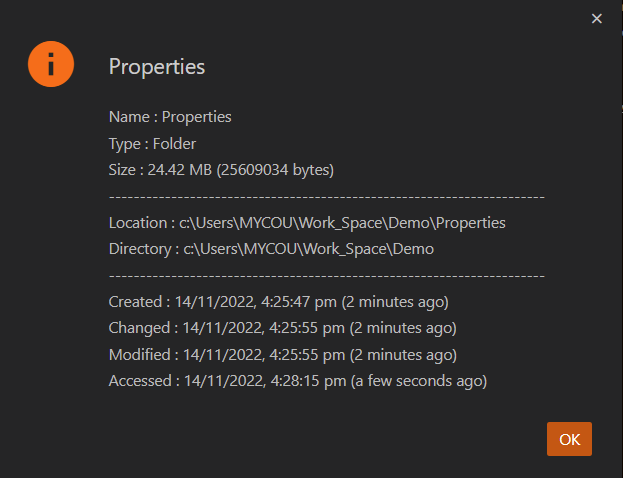
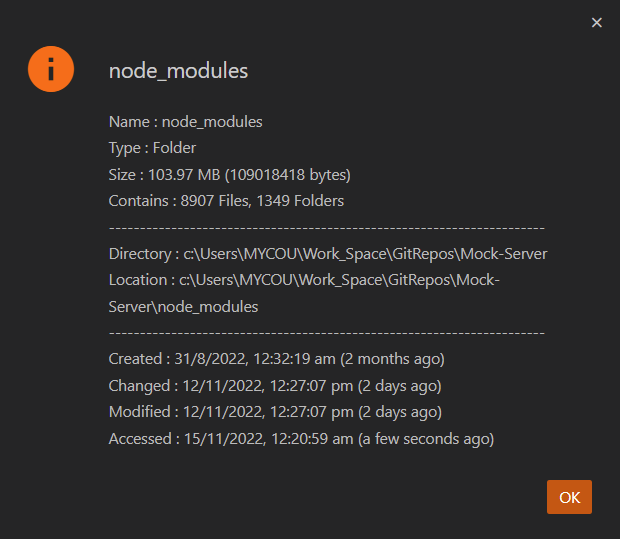
feat: Added number of files and folders in folder properties

diff --git a/src/extension.ts b/src/extension.ts
@@ -2,9 +2,9 @@ import * as vscode from 'vscode';
 import * as fs from "fs";
 import * as path from "path";
 import * as mime from "mime";
-import { convertBytes, dirSize, formatDate, imageDimension, toString, musicMetaData, videoMetaData } from './helpers';
 import { Settings } from './Settings';
 import * as humanizeDuration from "humanize-duration";
+import { convertBytes, formatDate, getAudioDetails, getImageDetails, getStats, getVideoDetails, toString } from './helpers';
 
 
 export function activate(context: vscode.ExtensionContext) {
@@ -17,72 +17,68 @@ export function activate(context: vscode.ExtensionContext) {
 			location: vscode.ProgressLocation.Notification,
 			title: "Please wait...",
 		}, async () => {
-			const stat = fs.statSync(fsPath);
-			const extension = path.extname(fsPath) || "[none]";
-			const title = path.basename(fsPath);
-			const name = path.basename(fsPath, extension);
-			const type = stat.isFile() ? "File" : "Folder";
-			const directory = path.dirname(fsPath);
-			const size = stat.isFile() ? convertBytes(stat.size) || 0 : convertBytes(await dirSize(fsPath));
-			const created = formatDate(stat.birthtime) || "";
-			const changed = formatDate(stat.ctime) || "";
-			const modified = formatDate(stat.mtime) || "";
-			const accessed = formatDate(stat.atime) || "";
-			const mimeType = mime.getType(fsPath) || '[unknown]';
-			const dimensions = mimeType.includes('image') ? imageDimension(fsPath) : "";
-			const musicmetadata = mimeType.includes('audio') ? await musicMetaData(fsPath) : "";
-			const videometadata = mimeType.includes('video') ? await videoMetaData(fsPath) : "";
 
-			const baseDetails = toString([
-				["Name", type === 'File' ? name : title],
-				["Extension", extension, type === 'File'],
-				["Type", type],
-				["Size", size]
+			const stats = await getStats(fsPath);
+
+			const mimeType = mime.getType(fsPath) || '[unknown]';
+
+			const image = mimeType.includes('image') ? getImageDetails(fsPath) : "";
+
+			const audio = mimeType.includes('audio') ? await getAudioDetails(fsPath) : "";
+
+			const video = mimeType.includes('video') ? await getVideoDetails(fsPath) : "";
+
+			const pathDetails = toString([
+				["Name", stats.isFile ? stats.baseName : stats.fileName],
+				["Extension", stats.extension, stats.isFile],
+				["Type", stats.type],
+				["Size", convertBytes(stats.size), stats.size],
+				["Contains", `${stats.contains?.files} Files, ${stats.contains?.folders} Folders`, !stats.isFile && stats.contains]
 			]);
 
-			const dimensionDetails = dimensions ?
+			const imageDetails = image ?
 				toString([
-					["Dimensions", `${dimensions?.width} x ${dimensions?.height} pixels`],
-					["Width", `${dimensions?.width} pixels`],
-					["Height", `${dimensions?.height} pixels`],
+					["Dimensions", `${image?.width} x ${image?.height} pixels`],
+					["Width", `${image?.width} pixels`],
+					["Height", `${image?.height} pixels`],
 				]) : "";
 
-			const audioDetails = musicmetadata ?
+			const audioDetails = audio ?
 				toString([
-					["Title", musicmetadata.title, Settings.audioMetaData.title],
-					["Album", musicmetadata.album, Settings.audioMetaData.album],
-					["Artist", musicmetadata.artist.join(', '), Settings.audioMetaData.artist],
-					["Genre", musicmetadata.genre.join(', '), Settings.audioMetaData.genre],
-					["Year", musicmetadata.year, Settings.audioMetaData.year],
-					["Duration", humanizeDuration(musicmetadata.duration * 1000, { maxDecimalPoints: 2 }), Settings.showDuration && musicmetadata.duration],
+					["Title", audio.title, Settings.audioMetaData.title],
+					["Album", audio.album, Settings.audioMetaData.album],
+					["Artist", audio.artist.join(', '), Settings.audioMetaData.artist],
+					["Genre", audio.genre.join(', '), Settings.audioMetaData.genre],
+					["Year", audio.year, Settings.audioMetaData.year],
+					["Duration", humanizeDuration(audio.duration * 1000, { maxDecimalPoints: 2 }), Settings.showDuration && audio.duration],
 				]) : "";
 
-			const videoDetails = videometadata ?
+			const videoDetails = video ?
 				toString([
-					["Duration", humanizeDuration(videometadata.duration * 1000, { maxDecimalPoints: 2 }), Settings.showDuration && videometadata.duration],
+					["Duration", humanizeDuration(video.duration * 1000, { maxDecimalPoints: 2 }), Settings.showDuration && video.duration],
 				]) : "";
 
 			const locationDetails = toString([
-				['Location', args.fsPath],
-				['Directory', directory],
+				['Directory', stats.directory],
+				['Location', stats.location],
 			]);
 
 			const timestampDetails = toString([
-				['Created', created, Settings.timeStamps.createdTimestamp],
-				['Changed', changed, Settings.timeStamps.changedTimestamp],
-				['Modified', modified, Settings.timeStamps.modifiedTimestamp],
-				['Accessed', accessed, Settings.timeStamps.accessedTimestamp]
+				['Created', formatDate(stats.created), stats.created && Settings.timeStamps.createdTimestamp],
+				['Changed', formatDate(stats.changed), stats.changed && Settings.timeStamps.changedTimestamp],
+				['Modified', formatDate(stats.modified), stats.modified && Settings.timeStamps.modifiedTimestamp],
+				['Accessed', formatDate(stats.accessed), stats.accessed && Settings.timeStamps.accessedTimestamp]
 			]);
 
 			const mimeTypeDetails = toString([
-				['Mime Type', mimeType, type === 'File']
+				['Mime Type', mimeType, stats.isFile]
 			]);
 
-			const result = [baseDetails, dimensionDetails, audioDetails, videoDetails, locationDetails, timestampDetails, mimeTypeDetails]
+			const result = [pathDetails, imageDetails, audioDetails, videoDetails, locationDetails, timestampDetails, mimeTypeDetails]
 				.filter(Boolean)
 				.join('\n----------------------------------------------------------------------\n');
 
-			vscode.window.showInformationMessage(title, { modal: true, detail: result });
+			vscode.window.showInformationMessage(stats.fileName, { modal: true, detail: result });
 		});
 
 	});

diff --git a/src/helpers.ts b/src/helpers.ts
@@ -8,23 +8,6 @@ import * as moment from "moment";
 import * as musicmetadata from 'musicmetadata';
 import { getVideoDurationInSeconds } from 'get-video-duration';
 
-export const dirSize = async (dir: string) => {
-  const files = await fsProm.readdir(dir, { withFileTypes: true });
-
-  const filePaths: Array<Promise<number>> = files.map(async file => {
-    const filePath = path.join(dir, file.name);
-
-    if (file.isDirectory()) return await dirSize(filePath);
-
-    if (file.isFile()) {
-      const { size } = await fsProm.stat(filePath);
-      return size;
-    }
-    return 0;
-  });
-
-  return (await Promise.all(filePaths)).flat(Infinity).reduce((i, size) => i + size, 0);
-};
 
 // Converts the file size from Bytes to KB | MB | GB | TB
 export const convertBytes = (bytes: number): string => {
@@ -33,6 +16,77 @@ export const convertBytes = (bytes: number): string => {
   const i = Math.floor(Math.log(bytes) / Math.log(1024));
   if (i === 0) return bytes + ' ' + sizes[i];
   return (bytes / Math.pow(1024, i)).toFixed(2) + ' ' + sizes[i] + ` (${bytes} bytes)`;
+};
+
+export const toString = (list: any[]) => {
+  return list.filter(([key, val, show = true]) => val && show)
+    .map(([key, val]) => `${key} : ${val}`)
+    .join("\n");
+};
+
+const getDeepStats = async (fsPath: string): Promise<fs.Stats[]> => {
+  const files = await fsProm.readdir(fsPath, { withFileTypes: true });
+
+  const statsList = files.map(async file => {
+    const filePath = path.join(fsPath, file.name);
+
+    const fsStats = await fsProm.stat(filePath);
+
+    if (file.isFile()) return [fsStats];
+
+    // If Directory then get all nested files and folder stats
+    const fsStatsList = await getDeepStats(filePath);
+    return [fsStats, ...fsStatsList];
+  });
+
+  const fsStatsList = await Promise.all(statsList);
+
+  return fsStatsList.flat(Infinity).filter(Boolean) as fs.Stats[];
+};
+
+export const getStats = async (fsPath: string) => {
+  const stats = await fsProm.stat(fsPath);
+  const extension = path.extname(fsPath) || "[none]";
+  const fileName = path.basename(fsPath);
+  const location = fsPath;
+  const directory = path.dirname(fsPath);
+  const baseName = path.basename(fsPath, extension);
+  const isFile = stats.isFile();
+  const type = isFile ? "File" : "Folder";
+  const created = stats.birthtime;
+  const changed = stats.ctime;
+  const modified = stats.mtime;
+  const accessed = stats.atime;
+  let size = stats.size;
+  let contains;
+
+  if (stats.isDirectory()) {
+    const allStats = await getDeepStats(fsPath);
+
+    contains = {
+      files: allStats.filter(stat => stat.isFile()).length,
+      folders: allStats.filter(stat => stat.isDirectory()).length,
+    };
+
+    const folderSize = allStats.filter(stat => stat.isFile).reduce((res, stat) => res + stat.size, 0);
+    size = folderSize;
+  }
+
+  return {
+    extension,
+    fileName,
+    location,
+    directory,
+    baseName,
+    type,
+    isFile,
+    created,
+    changed,
+    modified,
+    accessed,
+    size,
+    contains
+  };
 };
 
 export const formatDate = (date: Date) => {
@@ -45,7 +99,7 @@ export const formatDate = (date: Date) => {
   return `${absolute} (${relative})`;
 };
 
-export const imageDimension = (imagePath: string) => {
+export const getImageDetails = (imagePath: string) => {
   try {
     const dimensions = imageSize(imagePath);
     return dimensions;
@@ -54,13 +108,8 @@ export const imageDimension = (imagePath: string) => {
   }
 };
 
-export const toString = (list: any[]) => {
-  return list.filter(([key, val, show = true]) => val && show)
-    .map(([key, val]) => `${key} : ${val}`)
-    .join("\n");
-};
 
-export const musicMetaData = async (audioPath: string): Promise<MM.Metadata | undefined> => {
+export const getAudioDetails = async (audioPath: string): Promise<MM.Metadata | undefined> => {
   try {
     var readableStream = fs.createReadStream(audioPath);
     const result = await new Promise((resolve, reject) => {
@@ -78,7 +127,7 @@ export const musicMetaData = async (audioPath: string): Promise<MM.Metadata | un
 };
 
 // TODO: Now we get only duration. We need try to get other video information as well
-export const videoMetaData = async (videoPath: string) => {
+export const getVideoDetails = async (videoPath: string) => {
   try {
     if (!Settings.showDuration) return;
     var readableStream = fs.createReadStream(videoPath);

diff --git a/README.md b/README.md
@@ -2,10 +2,11 @@
 
 Get file or Folder Properties.
 
+- File Name and Extension.
 - File or Folder size.
+- Number of files and folders inside folder properties.
 - Image dimensions. `width` x `height`.
-- File Extension.
-- File or Folder `Location` and `Directory` path.
+- File or Folder `Directory` and `Location` of a file or folder.
 - Audio `title`, `album`, `artist`, `genre`, `year`, `duration`.
 - Video `duration`.
 - Timestamp of `created`, `changed`, `modified`, `accessed` with relative timestamp .

diff --git a/CHANGELOG.md b/CHANGELOG.md
@@ -1,5 +1,13 @@
 # Change Log
 
+## [v5.0.0]
+
+- Now it shows number of folders and files inside the folder properties.
+
+## [v4.0.0]
+
+- Added Audio and Video Details.
+
 ## [v3.0.0]
 
 - Hide extension and mimetype for folder properties.
